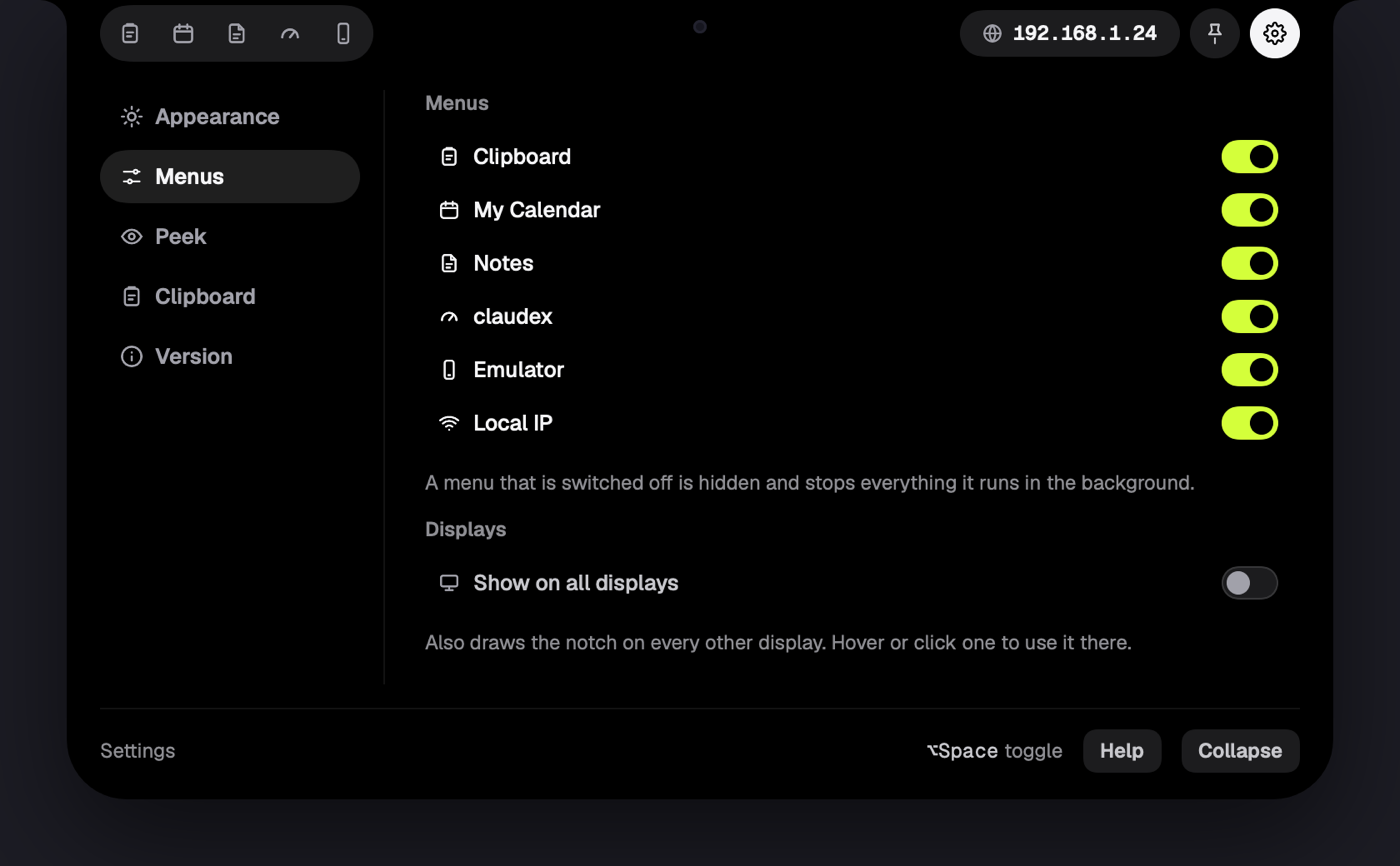
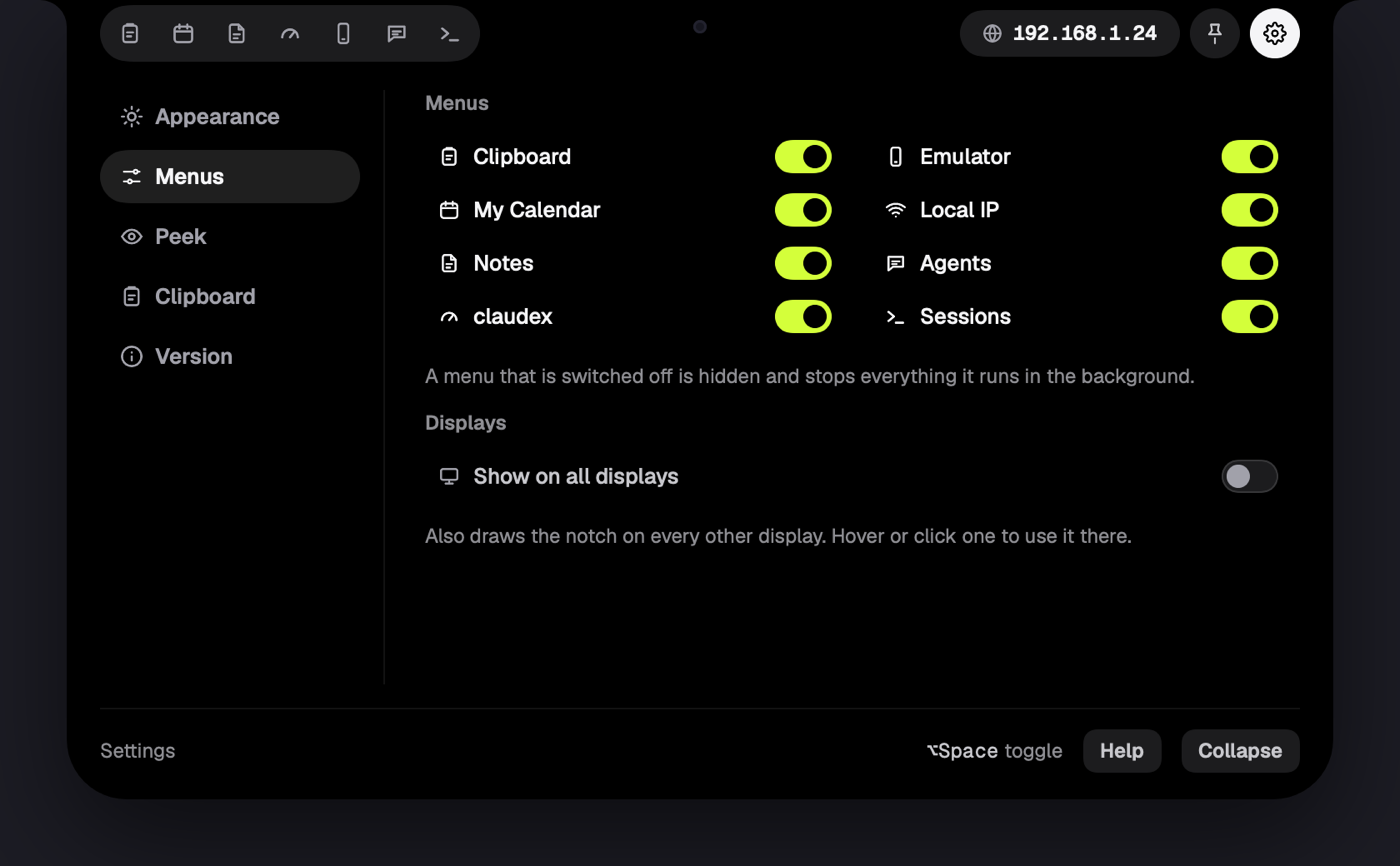
feat: settings › Menus in two columns
With Agents and Sessions the eight menu switches no longer fit the settings
screen in one column; two columns, filled top to bottom, leave room to spare.
Docs screenshot re-rendered.

diff --git a/MyWorkDock/Components/Popovers.swift b/MyWorkDock/Components/Popovers.swift
@@ -22,8 +22,9 @@ extension Geo {
         static let swatchCheck: CGFloat = 12
         static let ringWidth: CGFloat = 2
         static let noteFont: CGFloat = 11.5
-        /// Six menus + Show on all displays have to fit the settings screen (371 pt tall on the medium panel).
+        /// The menu switches sit in two columns, so the list plus Show on all displays fit the settings screen (371 pt tall on the medium panel).
         static let menuRowHeight: CGFloat = 32
+        static let menuColumnGap: CGFloat = 16
         static let switchSize = (width: CGFloat(34), height: CGFloat(20))
         static let switchKnob: CGFloat = 14
     }
@@ -286,8 +287,12 @@ private struct MenusSection: View {
     var body: some View {
         VStack(alignment: .leading, spacing: Geo.Chrome.popoverGap) {
             Text("Menus").font(Typo.ui(Geo.Appearance.sectionFont, .semibold)).foregroundStyle(t.faint)
-            VStack(spacing: 0) {
-                ForEach(Feature.allCases) { row($0) }
+            // Two columns, filled top to bottom: eight switches in one column outgrow the settings screen.
+            let features = Array(Feature.allCases)
+            let half = (features.count + 1) / 2
+            HStack(alignment: .top, spacing: Geo.Appearance.menuColumnGap) {
+                VStack(spacing: 0) { ForEach(features.prefix(half)) { row($0) } }.frame(maxWidth: .infinity)
+                VStack(spacing: 0) { ForEach(features.dropFirst(half)) { row($0) } }.frame(maxWidth: .infinity)
             }
             .padding(.top, Geo.Appearance.pullUp)
             Text("A menu that is switched off is hidden and stops everything it runs in the background.")
